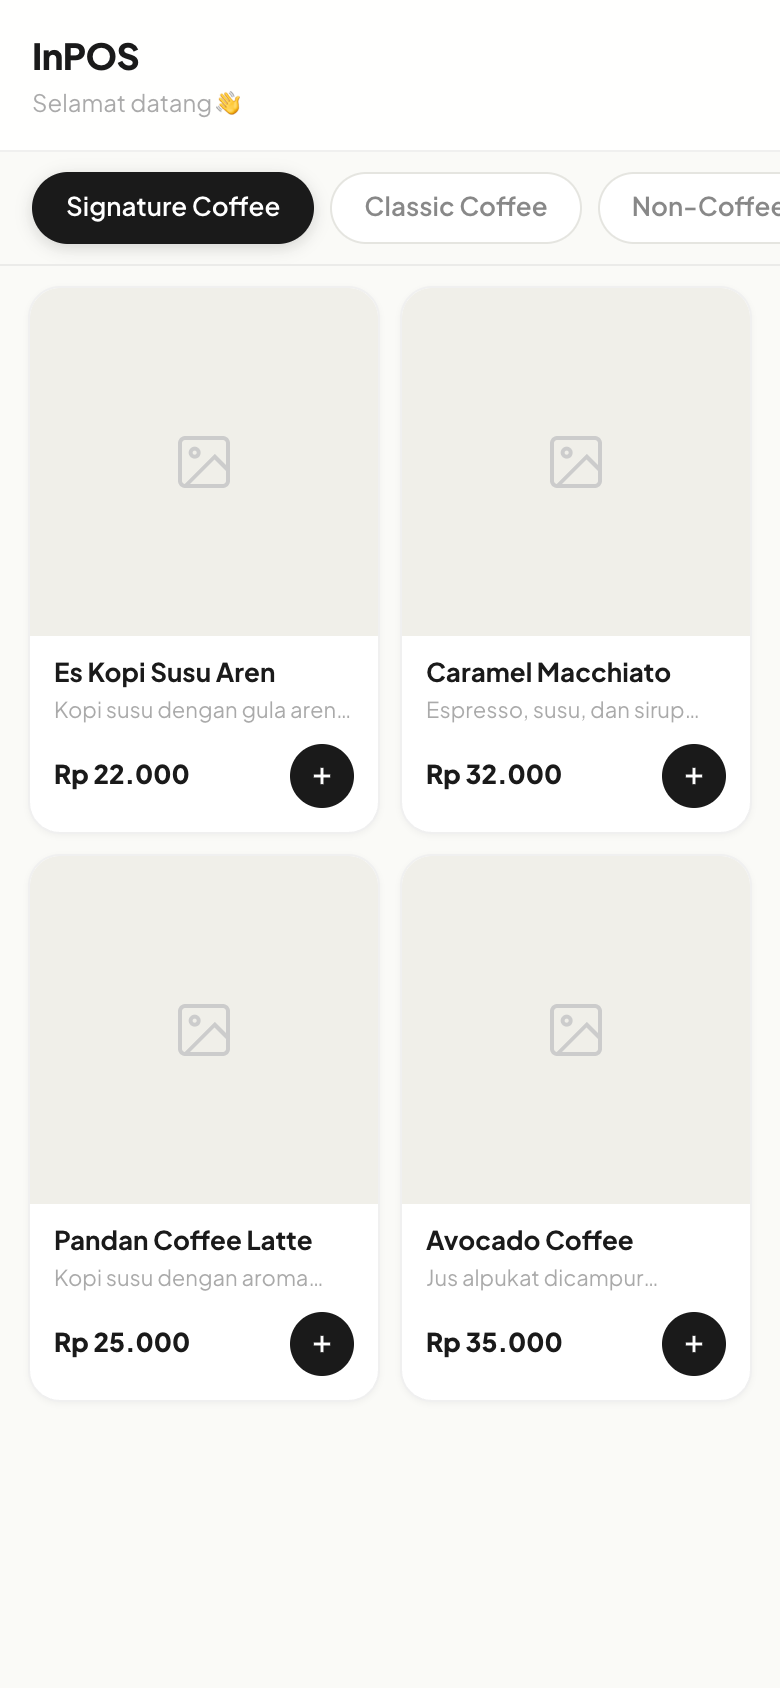
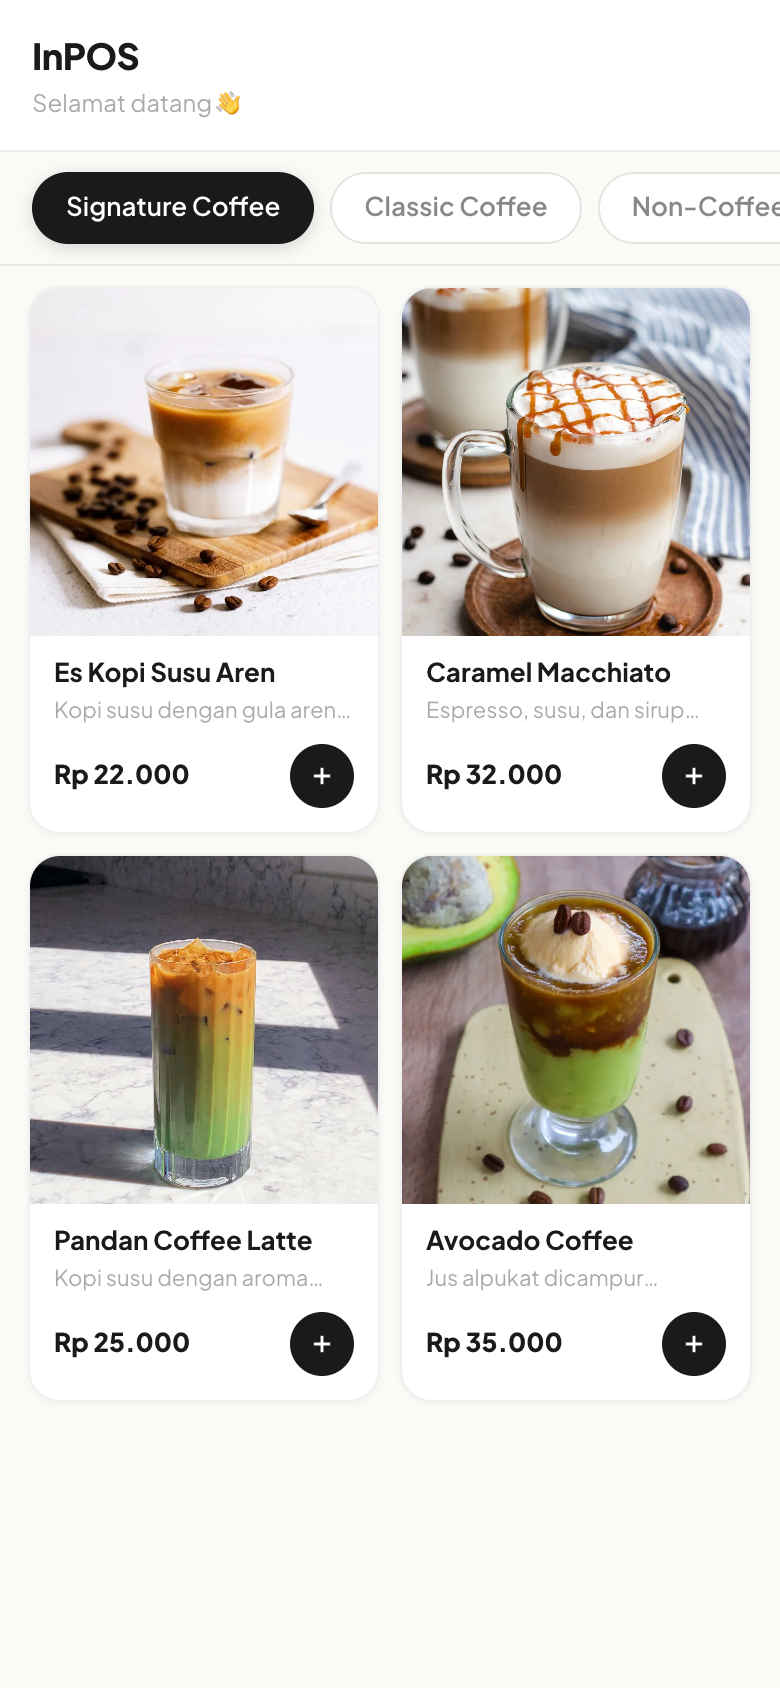
fix: attach product image webp files in DummyDataSeeder and regenerate customer QR menu screenshot

Changed region(s): [[0.0308, 0.4929, 0.9846, 0.7393], [0.0308, 0.154, 0.9846, 0.4005]]

diff --git a/database/seeders/DummyDataSeeder.php b/database/seeders/DummyDataSeeder.php
@@ -46,34 +46,34 @@ class DummyDataSeeder extends Seeder
         // 2. Products
         $products = [
             // Signature Coffee
-            ['category_id' => $catIds['Signature Coffee'], 'name' => 'Es Kopi Susu Aren', 'description' => 'Kopi susu dengan gula aren murni', 'price' => 22000, 'is_available' => true, 'show' => true, 'sort' => 1],
-            ['category_id' => $catIds['Signature Coffee'], 'name' => 'Caramel Macchiato', 'description' => 'Espresso, susu, dan sirup caramel premium', 'price' => 32000, 'is_available' => true, 'show' => true, 'sort' => 2],
-            ['category_id' => $catIds['Signature Coffee'], 'name' => 'Pandan Coffee Latte', 'description' => 'Kopi susu dengan aroma pandan wangi', 'price' => 25000, 'is_available' => true, 'show' => true, 'sort' => 3],
-            ['category_id' => $catIds['Signature Coffee'], 'name' => 'Avocado Coffee', 'description' => 'Jus alpukat dicampur dengan espresso dan es krim', 'price' => 35000, 'is_available' => true, 'show' => true, 'sort' => 4],
+            ['category_id' => $catIds['Signature Coffee'], 'name' => 'Es Kopi Susu Aren', 'description' => 'Kopi susu dengan gula aren murni', 'price' => 22000, 'image' => 'product/65d8e2ad58d9e_1785131622_Bq55z4sr.webp', 'is_available' => true, 'show' => true, 'sort' => 1],
+            ['category_id' => $catIds['Signature Coffee'], 'name' => 'Caramel Macchiato', 'description' => 'Espresso, susu, dan sirup caramel premium', 'price' => 32000, 'image' => 'product/caramel-macchiato-10_1785131631_vLy8EoSo.webp', 'is_available' => true, 'show' => true, 'sort' => 2],
+            ['category_id' => $catIds['Signature Coffee'], 'name' => 'Pandan Coffee Latte', 'description' => 'Kopi susu dengan aroma pandan wangi', 'price' => 25000, 'image' => 'product/pandan-coffee-2-2a353486-da98-4635-beb6-27800000c4c6_1784778985_Od2uoDEl.webp', 'is_available' => true, 'show' => true, 'sort' => 3],
+            ['category_id' => $catIds['Signature Coffee'], 'name' => 'Avocado Coffee', 'description' => 'Jus alpukat dicampur dengan espresso dan es krim', 'price' => 35000, 'image' => 'product/resep-coffee-alpukat_1785131691_rrgLjpJo.webp', 'is_available' => true, 'show' => true, 'sort' => 4],
             
             // Classic Coffee
-            ['category_id' => $catIds['Classic Coffee'], 'name' => 'Americano (Hot/Ice)', 'description' => 'Double shot espresso dengan air', 'price' => 18000, 'is_available' => true, 'show' => true, 'sort' => 5],
-            ['category_id' => $catIds['Classic Coffee'], 'name' => 'Caffe Latte (Hot/Ice)', 'description' => 'Espresso dengan susu segar', 'price' => 24000, 'is_available' => true, 'show' => true, 'sort' => 6],
-            ['category_id' => $catIds['Classic Coffee'], 'name' => 'Cappuccino (Hot/Ice)', 'description' => 'Espresso dengan busa susu tebal', 'price' => 24000, 'is_available' => true, 'show' => true, 'sort' => 7],
-            ['category_id' => $catIds['Classic Coffee'], 'name' => 'Mochaccino (Hot/Ice)', 'description' => 'Campuran kopi, susu, dan cokelat murni', 'price' => 28000, 'is_available' => true, 'show' => true, 'sort' => 8],
+            ['category_id' => $catIds['Classic Coffee'], 'name' => 'Americano (Hot/Ice)', 'description' => 'Double shot espresso dengan air', 'price' => 18000, 'image' => 'product/img-0054_1785131702_Kkvq4QPg.webp', 'is_available' => true, 'show' => true, 'sort' => 5],
+            ['category_id' => $catIds['Classic Coffee'], 'name' => 'Caffe Latte (Hot/Ice)', 'description' => 'Espresso dengan susu segar', 'price' => 24000, 'image' => 'product/img-0055_1785131718_fyclUX5R.webp', 'is_available' => true, 'show' => true, 'sort' => 6],
+            ['category_id' => $catIds['Classic Coffee'], 'name' => 'Cappuccino (Hot/Ice)', 'description' => 'Espresso dengan busa susu tebal', 'price' => 24000, 'image' => 'product/img-0056-2_1785131735_G8DsU0XX.webp', 'is_available' => true, 'show' => true, 'sort' => 7],
+            ['category_id' => $catIds['Classic Coffee'], 'name' => 'Mochaccino (Hot/Ice)', 'description' => 'Campuran kopi, susu, dan cokelat murni', 'price' => 28000, 'image' => 'product/img-0057-2_1785131748_1a6FHqUp.webp', 'is_available' => true, 'show' => true, 'sort' => 8],
             
             // Non-Coffee
-            ['category_id' => $catIds['Non-Coffee'], 'name' => 'Matcha Latte', 'description' => 'Premium Japanese matcha dengan susu', 'price' => 26000, 'is_available' => true, 'show' => true, 'sort' => 9],
-            ['category_id' => $catIds['Non-Coffee'], 'name' => 'Taro Latte', 'description' => 'Susu segar dengan rasa taro', 'price' => 24000, 'is_available' => true, 'show' => true, 'sort' => 10],
-            ['category_id' => $catIds['Non-Coffee'], 'name' => 'Lychee Yakult', 'description' => 'Minuman segar yakult dengan sirup leci dan selasih', 'price' => 22000, 'is_available' => true, 'show' => true, 'sort' => 11],
-            ['category_id' => $catIds['Non-Coffee'], 'name' => 'Strawberry Mojito', 'description' => 'Mojito segar tanpa alkohol rasa strawberry', 'price' => 25000, 'is_available' => true, 'show' => true, 'sort' => 12],
+            ['category_id' => $catIds['Non-Coffee'], 'name' => 'Matcha Latte', 'description' => 'Premium Japanese matcha dengan susu', 'price' => 26000, 'image' => 'product/img-0058-2_1785131759_UZDrr6LV.webp', 'is_available' => true, 'show' => true, 'sort' => 9],
+            ['category_id' => $catIds['Non-Coffee'], 'name' => 'Taro Latte', 'description' => 'Susu segar dengan rasa taro', 'price' => 24000, 'image' => 'product/img-0060_1785131766_19BuxI4Z.webp', 'is_available' => true, 'show' => true, 'sort' => 10],
+            ['category_id' => $catIds['Non-Coffee'], 'name' => 'Lychee Yakult', 'description' => 'Minuman segar yakult dengan sirup leci dan selasih', 'price' => 22000, 'image' => 'product/img-0061_1785131775_yEgUejXb.webp', 'is_available' => true, 'show' => true, 'sort' => 11],
+            ['category_id' => $catIds['Non-Coffee'], 'name' => 'Strawberry Mojito', 'description' => 'Mojito segar tanpa alkohol rasa strawberry', 'price' => 25000, 'image' => 'product/img-0062_1785131785_7SqwGttU.webp', 'is_available' => true, 'show' => true, 'sort' => 12],
             
             // Main Course
-            ['category_id' => $catIds['Main Course'], 'name' => 'Nasi Goreng Spesial Cafe', 'description' => 'Nasi goreng dengan telur, sosis, dan ayam suwir', 'price' => 30000, 'is_available' => true, 'show' => true, 'sort' => 13],
-            ['category_id' => $catIds['Main Course'], 'name' => 'Chicken Katsu Curry', 'description' => 'Nasi kari khas Jepang dengan ayam katsu krispi', 'price' => 42000, 'is_available' => true, 'show' => true, 'sort' => 14],
-            ['category_id' => $catIds['Main Course'], 'name' => 'Spaghetti Aglio Olio', 'description' => 'Pasta pedas gurih dengan topping smoked beef', 'price' => 38000, 'is_available' => true, 'show' => true, 'sort' => 15],
-            ['category_id' => $catIds['Main Course'], 'name' => 'Beef Teriyaki Rice Bowl', 'description' => 'Daging sapi tumis teriyaki dengan telur mata sapi', 'price' => 45000, 'is_available' => true, 'show' => true, 'sort' => 16],
+            ['category_id' => $catIds['Main Course'], 'name' => 'Nasi Goreng Spesial Cafe', 'description' => 'Nasi goreng dengan telur, sosis, dan ayam suwir', 'price' => 30000, 'image' => 'product/img-0063_1785131797_v5UZpA6r.webp', 'is_available' => true, 'show' => true, 'sort' => 13],
+            ['category_id' => $catIds['Main Course'], 'name' => 'Chicken Katsu Curry', 'description' => 'Nasi kari khas Jepang dengan ayam katsu krispi', 'price' => 42000, 'image' => 'product/img-0064_1785131814_6lucNtd3.webp', 'is_available' => true, 'show' => true, 'sort' => 14],
+            ['category_id' => $catIds['Main Course'], 'name' => 'Spaghetti Aglio Olio', 'description' => 'Pasta pedas gurih dengan topping smoked beef', 'price' => 38000, 'image' => 'product/img-0066_1785131830_OnEE3som.webp', 'is_available' => true, 'show' => true, 'sort' => 15],
+            ['category_id' => $catIds['Main Course'], 'name' => 'Beef Teriyaki Rice Bowl', 'description' => 'Daging sapi tumis teriyaki dengan telur mata sapi', 'price' => 45000, 'image' => 'product/img-0067_1785131897_2p4tGRap.webp', 'is_available' => true, 'show' => true, 'sort' => 16],
             
             // Snacks & Pastry
-            ['category_id' => $catIds['Snacks & Pastry'], 'name' => 'French Fries', 'description' => 'Kentang goreng gurih porsi besar', 'price' => 18000, 'is_available' => true, 'show' => true, 'sort' => 17],
-            ['category_id' => $catIds['Snacks & Pastry'], 'name' => 'Mix Platter', 'description' => 'Sosis, kentang, chicken nugget, dan onion ring', 'price' => 35000, 'is_available' => true, 'show' => true, 'sort' => 18],
-            ['category_id' => $catIds['Snacks & Pastry'], 'name' => 'Butter Croissant', 'description' => 'Croissant mentega klasik yang renyah', 'price' => 22000, 'is_available' => true, 'show' => true, 'sort' => 19],
-            ['category_id' => $catIds['Snacks & Pastry'], 'name' => 'Cireng Bumbu Rujak', 'description' => 'Cireng krispi dengan cocolan bumbu rujak manis pedas', 'price' => 20000, 'is_available' => true, 'show' => true, 'sort' => 20],
+            ['category_id' => $catIds['Snacks & Pastry'], 'name' => 'French Fries', 'description' => 'Kentang goreng gurih porsi besar', 'price' => 18000, 'image' => 'product/img-0068_1785131858_wWq76QFy.webp', 'is_available' => true, 'show' => true, 'sort' => 17],
+            ['category_id' => $catIds['Snacks & Pastry'], 'name' => 'Mix Platter', 'description' => 'Sosis, kentang, chicken nugget, dan onion ring', 'price' => 35000, 'image' => 'product/img-0069_1785131871_KoldJkDO.webp', 'is_available' => true, 'show' => true, 'sort' => 18],
+            ['category_id' => $catIds['Snacks & Pastry'], 'name' => 'Butter Croissant', 'description' => 'Croissant mentega klasik yang renyah', 'price' => 22000, 'image' => 'product/img-0070_1785131846_JxOIdTGm.webp', 'is_available' => true, 'show' => true, 'sort' => 19],
+            ['category_id' => $catIds['Snacks & Pastry'], 'name' => 'Cireng Bumbu Rujak', 'description' => 'Cireng krispi dengan cocolan bumbu rujak manis pedas', 'price' => 20000, 'image' => 'product/img-0071_1785131888_rQJdhPxt.webp', 'is_available' => true, 'show' => true, 'sort' => 20],
         ];
         
         $prodModels = [];
